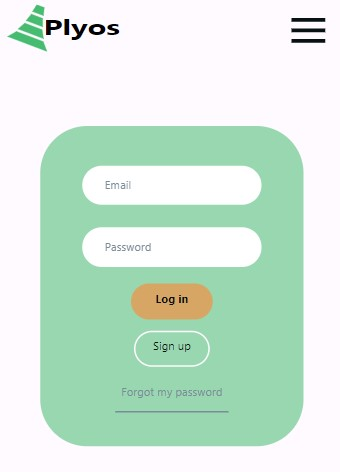
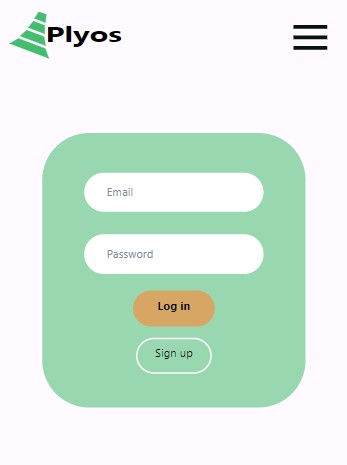
updated user pages

diff --git a/src/pages/login/Login.js b/src/pages/login/Login.js
@@ -12,6 +12,7 @@ import { UserContext } from '../../context/UserContextProvider';
 
 export const Login = (props) => {
     const { register, handleSubmit, errors } = useForm();
+    const [ loginError, setLoginError] = useState(null); 
     const [signUpPage, setSignUpPage] = useState(false);
     const { logInUser, setUserToken } = useContext(UserContext);
     const history = useHistory();
@@ -23,34 +24,50 @@ export const Login = (props) => {
           email: email,
           password: password
         };
- 
         const [response, error] = await db.logIn(user);
         if (response) {
           setUserToken(response.token)
           logInUser(user.email, response.id);
           history.location.state ? history.push(history.location.state.from): history.push("/")
         } else {
-          console.log(error)
+          if(error.response.status===401) {
+            setLoginError("Unknown combination of e-mail and password")
+          } else {
+            setLoginError("There is an error on the server. Try again later.") 
+          }
         }
     };
+
+    const goToLoginPage = () => {
+      setLoginError(null)
+      setSignUpPage(!signUpPage);
+    }
 
     const setSignUp = () => {
         setSignUpPage(!signUpPage);
     };
 
-    const signUp = () => {
-        console.log("You clicked SIGN UP");
-        //extra validation ?
-        //hashing ?
-        //post request
-        //const newUser = {
-        //  email: "",
-        //  password: ""
-        //};
-    };
-
-    const forgotPassword = () => {
-        console.log("You forgot your password..")
+    const signUp = async ({email, password,password_repeat}) => {
+      setLoginError(null)
+      if (password !== password_repeat){
+        setLoginError("Passwords do not match")
+      } else {
+        const user = {
+          email: email,
+          password: password
+        };
+        const [response, error] = await db.signUp(user);
+        if (response) {
+          setSignUpPage(!signUpPage)
+        } else {
+          if (error.response.status===409) {
+            setLoginError("There's already an account for this e-mail")
+          } else {
+            setLoginError("Something went wrong on the server. Please try again later.")
+          }
+        }
+      }
+      
     };
 
     return (
@@ -84,10 +101,10 @@ export const Login = (props) => {
                         value: true,
                         message: 'Dit veld mag niet leeg zijn',
                       },
-                      // minLength: {
-                      //     value: 8,
-                      //     message: 'Een wachtwoord moet minimaal 8 tekens zijn'
-                      // }
+                      minLength: {
+                          value: 8,
+                          message: 'Een wachtwoord moet minimaal 8 tekens zijn'
+                      }
                     }
                   )}
                 error={errors.password}    
@@ -110,28 +127,36 @@ export const Login = (props) => {
                     error={errors.password_repeat}    
                 />
             }
+            {
+              loginError && <span>{loginError}</span>
+            }
             {!signUpPage ?
                 <Fragment>
-                    <Button onClick={handleSubmit(logIn)}
-                    type="submit"
-                    className="btn-primary"
+                    <Button 
+                      onClick={handleSubmit(logIn)}
+                      type="submit"
+                      className="btn-primary"
                     >Log in</Button>
-                    <Button onClick={setSignUp}
-                    type="text"
-                    className="btn-secondary"
+                    <Button 
+                      onClick={setSignUp}
+                      type="text"
+                      className="btn-secondary"
                     >Sign up</Button>
-                    <Button onClick={forgotPassword}
-                    type="text"
-                    className="btn-tertiary"
-                    >Forgot my password</Button>
                 </Fragment>
             :
-                <Button onClick={handleSubmit(signUp)}
-                type="submit"
-                className="btn-primary"
+              <Fragment>
+                <Button 
+                  onClick={handleSubmit(signUp)}
+                  type="submit"
+                  className="btn-primary"
                 >Sign up</Button>
+                <Button 
+                  onClick={handleSubmit(goToLoginPage)}
+                  type="submit"
+                  className="btn-secondary"
+                >Back</Button>
+              </Fragment>
             }
-            <span></span>
         </form>
       </Fragment>
     );

diff --git a/src/pages/myprofile/MyProfile.js b/src/pages/myprofile/MyProfile.js
@@ -1,5 +1,6 @@
-import React, { useContext, useState } from 'react';
+import React, { useContext, useState, useEffect } from 'react';
 import { useForm } from 'react-hook-form';
+import { useHistory } from 'react-router-dom';
 
 import './MyProfile.css'
 
@@ -9,24 +10,57 @@ import { Input } from '../../components/atoms/input/Input';
 import { Background } from '../../components/atoms/background/Background';
 import { UserContext } from '../../context/UserContextProvider';
 
+import DatabaseHelper from '../../helpers/databaseHelper';
+
 export const MyProfile = (props) => {
+    const { currentUser, getUserToken, setActiveUser } = useContext(UserContext);
     const { register, handleSubmit, errors } = useForm();
+    const [profileError, setProfileError] = useState(null);
     const { logOutUser } = useContext(UserContext);
     const [input, setInput] = useState(false);
+
+    const history = useHistory();
+    const db = new DatabaseHelper()
+
+    useEffect(() => {
+        async function getUser() {
+            const token = await getUserToken()
+            await setActiveUser(token);
+        }
+        getUser()
+    },[])
 
     const logOut = () => {
         logOutUser();
     };
 
-    const deleteAccount = () => {
-        console.log("Deleting Account");
+    const deleteAccount = async () => {
+        const token = getUserToken()
+        const [response] = await db.privateDelete(`/user/${currentUser.userId}`, token)
+        if(response) {
+            history.push("/login")
+        } else {
+            setProfileError("Something went wrong on the server. Please try again later.")
+        }
     }
 
-    const changePassword = async () => {
-        await setInput(!input);
-        if (input) {
-            console.log("Change password")
+    const setChangePassword = () => {
+        setInput(true);
+    }
+
+    const changePassword = async ({password}) => {
+        setProfileError(null)
+        const newPassword = {
+            "password": password,
         }
+        const token = getUserToken()
+        const [response] = await db.privatePatch(`/user/password/${currentUser.userId}`, token, newPassword)
+        if (response){
+            setInput(false)
+        } else {
+            setProfileError("Something went wrong on the server. Please try again later.")
+        }
+        
     }
 
     return(
@@ -55,13 +89,14 @@ export const MyProfile = (props) => {
                         error={errors.password}   
                     />
                 }
+                {profileError && <span>{profileError}</span>}
                 <Button 
-                    onClick={handleSubmit(changePassword)}
+                    onClick={!input ? handleSubmit(setChangePassword) : handleSubmit(changePassword)}
                     type="submit"
                     className="btn-secondary"
                     color="orange"
                 >
-                Change password
+                {!input ? "Change password" : "Save password" }
                 </Button>  
                 <Button 
                     onClick={handleSubmit(deleteAccount)}

diff --git a/src/helpers/databaseHelper.js b/src/helpers/databaseHelper.js
@@ -20,7 +20,7 @@ export default class DatabaseHelper {
       let data = "";
       let error = {};
         try {
-          const response = await Axios.post(`${this.baseURL}/user/login`, newUser);
+          const response = await Axios.post(`${this.baseURL}/user/signup`, newUser);
           data = response;
         } catch (err) {
           error = err;     

diff --git a/src/App.css b/src/App.css
@@ -9,3 +9,10 @@ html, body {
     height: calc(100vh - 8rem);
     overflow: hidden;
 }
+
+span {
+    text-align: center;
+    color: var(--black);
+    font-weight: bold;
+    margin: 0.5rem;
+}
